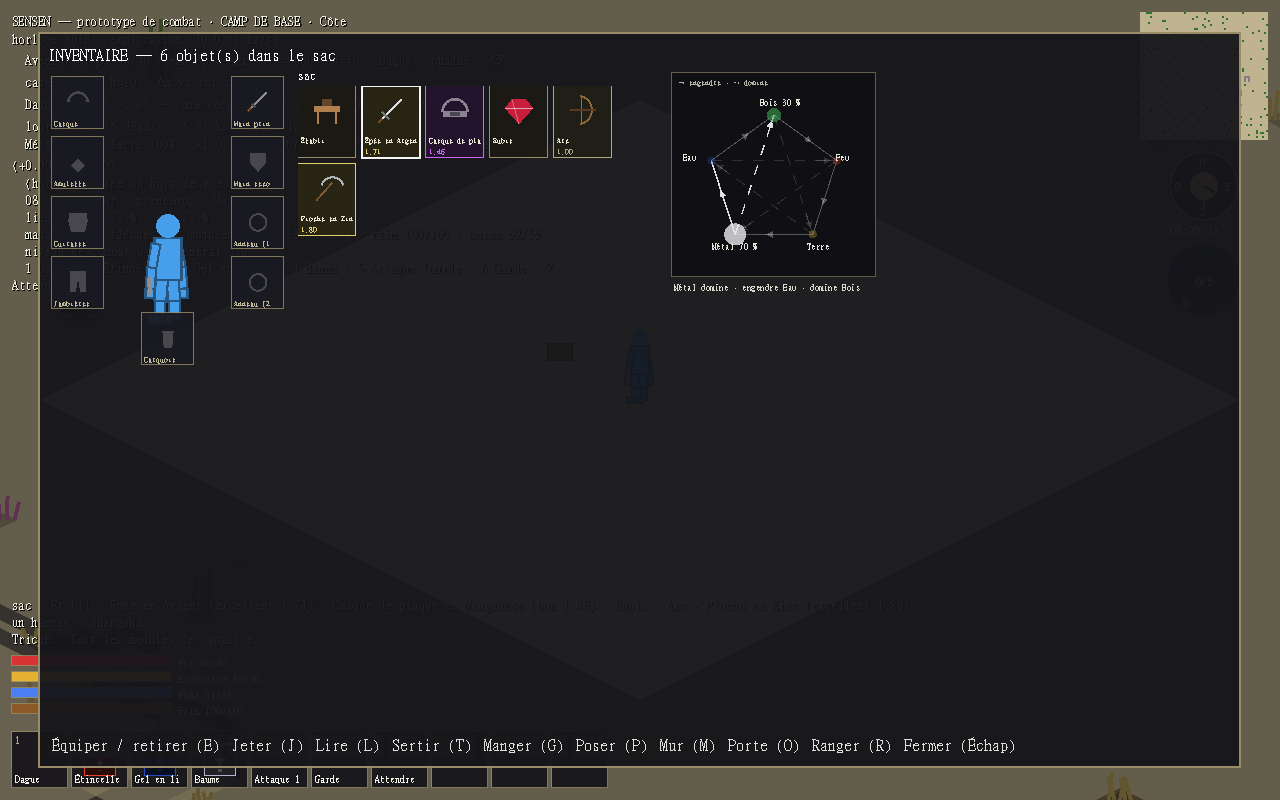
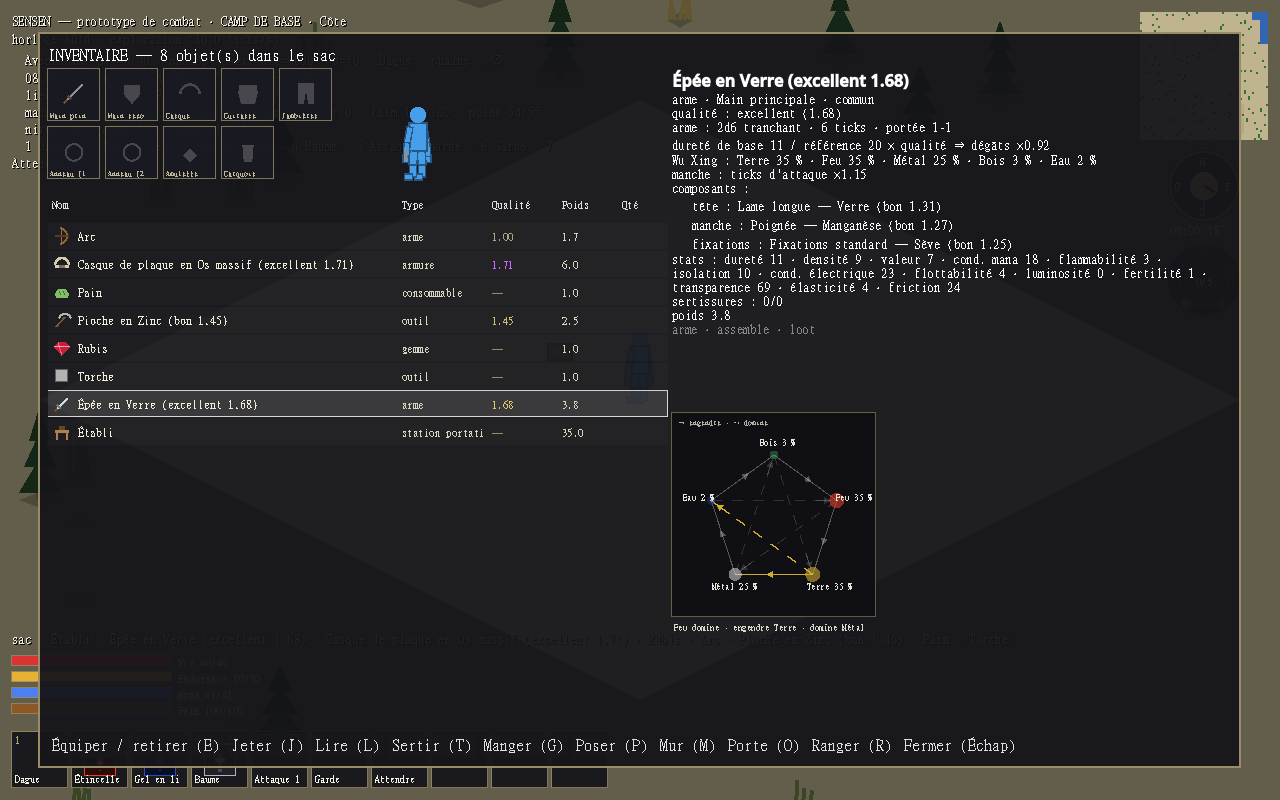
Inventaire : le sac en liste triable (nom, type, qualité, poids, quantité), les cases d'équipement en deux rangées à gauche du personnage ; le robot de parcours se soigne au Baume
Point 25 de la file du designer. Capture du README refaite.

diff --git a/docs/08 - Technique/Écrans d'interface.md b/docs/08 - Technique/Écrans d'interface.md
@@ -68,7 +68,7 @@ Inventaire+équipement (avec poids), Craft (recettes des stations à portée, [[
 > **Instruction du designer** : « un véritable écran de création du personnage avec visuel du personnage, personnalisation, stats, compétences, kit de départ ». L'ancien texte en surimpression (R/C/flèches) est remplacé par un écran `Ecrans` « creation » : à gauche la liste — **nom** (tapé au clavier), **race**, **classe**, **année de naissance** (signe), **points à répartir**, les **six stats** (valeur et points mis), **teinte**, Commencer ; à droite le **personnage en grand** (le paperdoll du jeu, à la teinte choisie, avec l'équipement de départ de la classe) et le **détail** de la ligne : talent et bonus de la race, talent, bonus, **compétences de départ**, **potentiels** et **kit de départ** de la classe (équipement + râtelier + établi portatif + coffre du camp), signe de l'année, description de la stat. ← → ou + / − modifient, Entrée passe à la ligne suivante ou valide, Échap revient au titre. Données : `data/creation.json` (points de base 30, plafond 10 par stat, année par défaut, huit teintes nommées) ; le nom choisi devient `joueur.nom` (enregistré dans les deux langues), la teinte remplace le bleu par défaut. Capture : `capture.tscn -- --creation`.
 
 > [!success] Décidé et codé le 2026-08-30 — l'inventaire visuel, des fenêtres qui prennent l'écran
-> **Instruction du designer** : « refonte de l'inventaire et de l'écran de craft, plus visuels (icônes des objets, aperçu de l'avatar avec slots d'équipement, Wu Xing…), plus beaux ; les fenêtres prennent plus de l'écran ». **Fenêtres** : le panneau des écrans prend 94 % × 92 % de la fenêtre (jamais moins que 1000 × 660), recalculé au redimensionnement. **Inventaire** (`scenes/demo/inventaire.gd`, `InventaireVisuel`) : à gauche l'**avatar** — le paperdoll du jeu avec ce qu'il porte réellement — entouré de neuf **cases d'équipement** (icône de l'objet porté ou silhouette fantôme du slot vide) ; au milieu le **sac** en grille de cartes (icône, nom court, quantité, qualité, cadre à la couleur du palier ou de la rareté) ; à droite le détail et le **Wu Xing de l'objet** (le pentagramme du composeur, réutilisé). Clic = sélection, double-clic = action principale ; les raccourcis et boutons de l'écran (Équiper, Jeter, Lire, Sertir…) restent ceux d'avant, sur la même liste d'entrées. **Icônes** : `Pictos.dessiner_objet` — un pictogramme par fonctionnalité (épée, dague, lance, masse, hache, pioche, pelle, faucille, seau, arc, bâton) ou type (bouclier, casque, cuirasse, jambières, anneau, amulette, gemme, livre, fiole ou miche, flèches, lingot / planche / brut, composant, station, meuble, carquois), teinté par la couleur du matériau (palette). **Atelier** (`scenes/demo/atelier.gd`, `AtelierVisuel`) : les recettes en cartes — l'icône de ce qui sort (objet assemblé, composant teinté du matériau de la pile, matériau plat, plat, meuble), le nom sur deux lignes, ✓ / ✗ faisable, la station ; les ingrédients optionnels d'un plat en cartes cochées ☑ / ☐ à la suite de leur recette ; le détail de la recette (avec l'obtention dépliée de chaque composant) reste à droite. Captures : `capture.tscn -- --ecran inventaire --objet craft_epee,…` et `--ecran atelier`.
+> **Instruction du designer** : « refonte de l'inventaire et de l'écran de craft, plus visuels (icônes des objets, aperçu de l'avatar avec slots d'équipement, Wu Xing…), plus beaux ; les fenêtres prennent plus de l'écran ». **Fenêtres** : le panneau des écrans prend 94 % × 92 % de la fenêtre (jamais moins que 1000 × 660), recalculé au redimensionnement. **Inventaire** (`scenes/demo/inventaire.gd`, `InventaireVisuel`) : à gauche l'**avatar** — le paperdoll du jeu avec ce qu'il porte réellement — entouré de neuf **cases d'équipement** (icône de l'objet porté ou silhouette fantôme du slot vide) ; au milieu le **sac** en grille de cartes (icône, nom court, quantité, qualité, cadre à la couleur du palier ou de la rareté) — **remplacée le 2026-08-31 à la demande du designer** par une **liste triable** (icône, nom, type, qualité, poids, quantité ; un clic sur l'en-tête trie, un second inverse) avec les **cases d'équipement en deux rangées à gauche du personnage** ; à droite le détail et le **Wu Xing de l'objet** (le pentagramme du composeur, réutilisé). Clic = sélection, double-clic = action principale ; les raccourcis et boutons de l'écran (Équiper, Jeter, Lire, Sertir…) restent ceux d'avant, sur la même liste d'entrées. **Icônes** : `Pictos.dessiner_objet` — un pictogramme par fonctionnalité (épée, dague, lance, masse, hache, pioche, pelle, faucille, seau, arc, bâton) ou type (bouclier, casque, cuirasse, jambières, anneau, amulette, gemme, livre, fiole ou miche, flèches, lingot / planche / brut, composant, station, meuble, carquois), teinté par la couleur du matériau (palette). **Atelier** (`scenes/demo/atelier.gd`, `AtelierVisuel`) : les recettes en cartes — l'icône de ce qui sort (objet assemblé, composant teinté du matériau de la pile, matériau plat, plat, meuble), le nom sur deux lignes, ✓ / ✗ faisable, la station ; les ingrédients optionnels d'un plat en cartes cochées ☑ / ☐ à la suite de leur recette ; le détail de la recette (avec l'obtention dépliée de chaque composant) reste à droite. Captures : `capture.tscn -- --ecran inventaire --objet craft_epee,…` et `--ecran atelier`.
 
 ## Liens
 - **Dépend de** : [[Direction artistique]], [[Localisation]]

diff --git a/docs/00 - Index/Vers la production.md b/docs/00 - Index/Vers la production.md
@@ -59,6 +59,7 @@ etape: 0
 > **Ajout du designer (2026-08-30, 22 h 20)** : 22. **Fait (2026-08-30, 22 h 55)** — sept captures reprises ; le donjon et le combat après exploration (`capture.tscn -- --explorer N`, demande du designer). **Refaire les captures d'écran du README** après les changements d'interface (minimap, HUD, création, blocs).
 > **Ajout du designer (2026-08-30, 23 h 55)** : 23. **Fait (2026-08-31, 0 h 40)** — fenêtres à 94 % de l'écran, inventaire visuel (avatar, cases d'équipement, sac en icônes, Wu Xing de l'objet) et atelier en cartes ([[Écrans d'interface]]). **Refonte de l'inventaire et de l'écran de craft** — plus visuels (icônes des objets, aperçu de l'avatar avec ses slots d'équipement, Wu Xing…), plus beaux ; **les fenêtres prennent plus de l'écran** en général.
 > **Ajout du designer (2026-08-31, 0 h 55)** : 24. **Fait (2026-08-31, 1 h 20)** — [v0.1.0-alpha](https://github.com/devmarcpro/sensen/releases/tag/v0.1.0-alpha), pré-version : `Sensen-0.1.0-alpha-windows-x86_64.zip` (36 Mo, exe avec `.pck` embarqué, 106 Mo décompressé), exporté headless avec les gabarits 4.6.3 ; les locales CSV sont gardées brutes dans l'export (`importer="keep"`) parce que `GameData` les lit lui-même — sans ça l'exe démarrait avec 0 clé de traduction. Publié via l'API GitHub avec le jeton des identifiants git ; procédure dans le README. **Compiler un exécutable et le publier dans les Releases du dépôt, en alpha** — export Windows (Godot 4.6.3, gabarits d'export, `export_presets.cfg`), archive zip, release GitHub pré-version.
+> **Ajout du designer (2026-08-31, 1 h 40)** : 25. **Fait (2026-08-31, 1 h 55)** — [[Écrans d'interface]]. **Inventaire : le sac en liste triable** (nom, type, qualité, poids, quantité) ; **les slots d'équipement à gauche du personnage, en deux rangées**.
 > **Ajout du designer (2026-08-30, 17 h 40)** : 15. **Codé le 2026-08-30** — ~~Supprimer totalement la timeline graphique~~, et ~~supprimer complètement les tours et l'ordre de passage~~ ([[Boucle de tick]]) : plusieurs PNJ peuvent agir **en même temps**, le joueur et un ennemi peuvent attaquer **exactement au même tick** (résolution simultanée des actions dues au même tick — les deux coups portent, même si l'un tue l'autre ; plus d'ordre d'itération qui départage). À faire **avant** le dungeon crawling (13), puisque ça retire quelque chose qui vient d'être posé.
 > **Ajout du designer (2026-08-30, 17 h 45)** : 16. **Codé le 2026-08-30** ([[Génération de donjon]]) — ~~Des portes~~ pour les **bâtiments des villes** et **certaines salles des donjons** : une porte se ferme (bloque le passage et la vue) et s'ouvre (par le joueur et les PNJ, à l'interaction ou en passant), se pose dans les plans de bâtiments (le `P` des grilles) et dans le générateur de donjon (à l'entrée de certaines salles, fermées, éventuellement à défoncer) ; en données (contenu de tuile `porte` ouvert / fermé, matériau, dureté). À faire après 15, avant l'essai du dungeon crawling (13).
 > **État au 2026-08-30 (soir)** : 1 à 4, 6 et 7 codés et poussés (HUD, molette, 64 × 64, écran de chargement, police MingLiU-ExtB, écran principal). Le 5 attend une **réponse du designer** : lever ou non l'interdiction de GDExtension dans *Contraintes permanentes*, et pour quels systèmes. Aucun profil ne montre aujourd'hui un chemin chaud hors budget (cellule 64 × 64 < 100 ms, étage < 60 ms, pas de combat < 1 ms) ; la règle des notes est « décision au profilage, pas avant ». Sans réponse, rien n'est réécrit.
